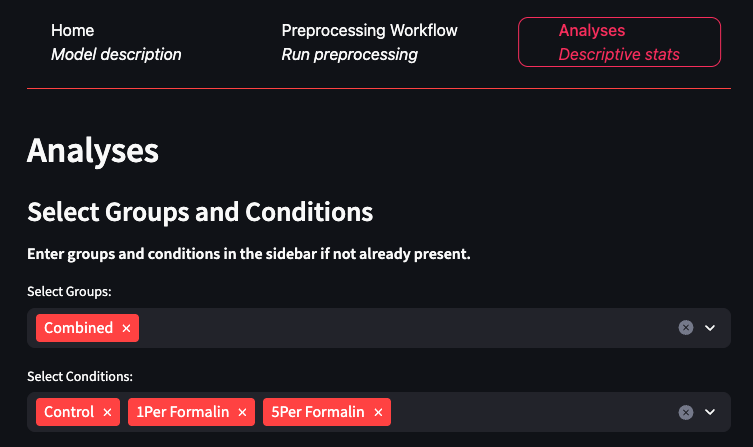
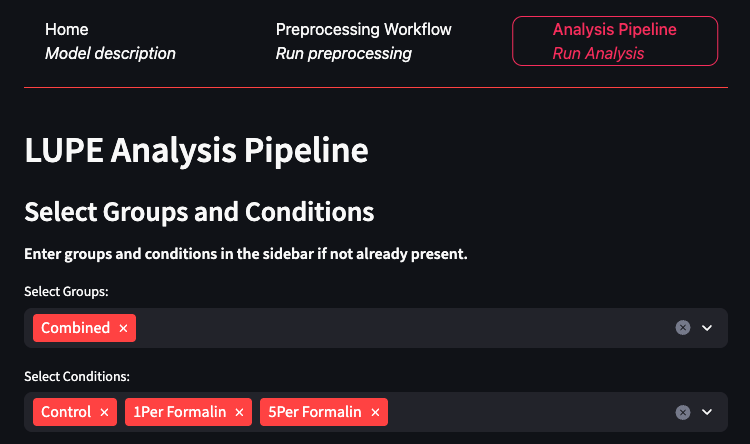
demo_app screenshot edits, changing app tab header

diff --git a/lupe_analysis.py b/lupe_analysis.py
@@ -315,7 +315,7 @@ def preprocess_workflow():
 
 # Analysis Workflow
 def analysis_workflow():
-    st.markdown("## Analyses")
+    st.markdown("## LUPE Analysis Pipeline")
 
     if "current_project" not in st.session_state or not st.session_state["current_project"]:
         st.warning("Please select or create a project in the Preprocessing Workflow tab first.")
@@ -505,16 +505,16 @@ def main():
                     , unsafe_allow_html=True)
 
 # Navigation Logic
-page_names = ['Home', 'Preprocessing Workflow', 'Analyses']
+page_names = ['Home', 'Preprocessing Workflow', 'Analysis Pipeline']
 chosen_id = stx.tab_bar(data=[
     stx.TabBarItemData(id=1, title=page_names[0], description="Model description"),
     stx.TabBarItemData(id=2, title=page_names[1], description="Run preprocessing"),
-    stx.TabBarItemData(id=3, title=page_names[2], description="Descriptive stats"),
+    stx.TabBarItemData(id=3, title=page_names[2], description="Run Analysis"),
 ], default=1)
 
 if page_names[int(chosen_id) - 1] == 'Home':
     main()
 elif page_names[int(chosen_id) - 1] == 'Preprocessing Workflow':
     preprocess_workflow()
-elif page_names[int(chosen_id) - 1] == 'Analyses':
+elif page_names[int(chosen_id) - 1] == 'Analysis Pipeline':
     analysis_workflow()
